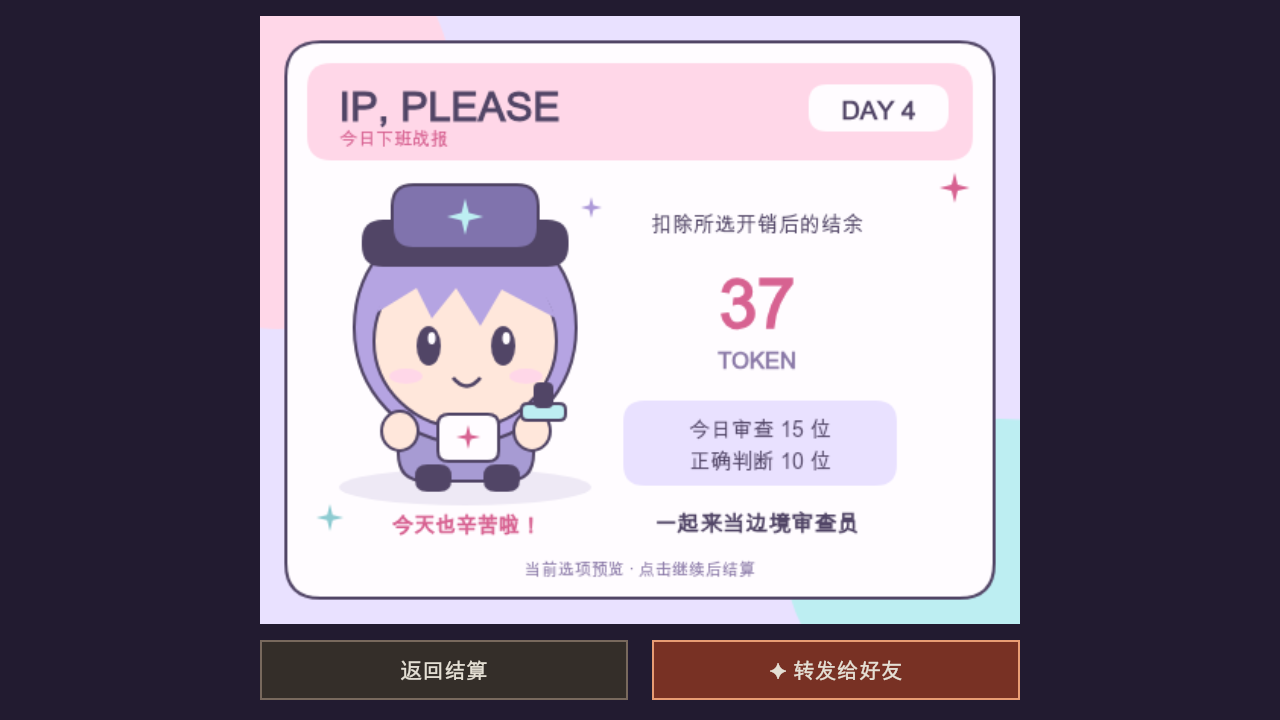
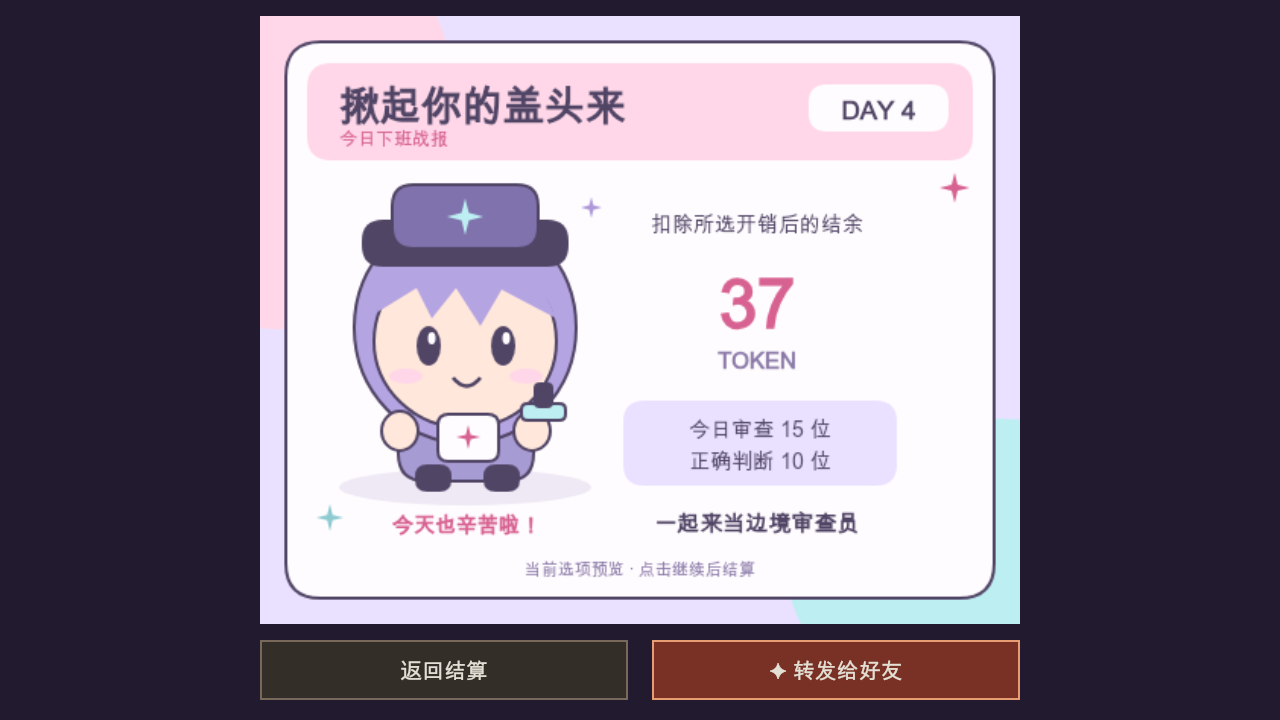
Give the Mini Game one consistent Chinese display name
Use 揪起你的盖头来 throughout the WeChat project, in-game title
screens, daily report images, and both share entry points. Apply display
replacements during the Mini Game build while preserving upstream credits.

Constraint: Display the exact Chinese name in both language modes
Directive: Keep the display name centralized in wechat/client/branding.js
Confidence: high
Scope-risk: narrow
Tested: 50 regression tests; Chinese glyph coverage and title bounds; native Canvas screen inspection
Tested: WeChat DevTools preview; import ZIP integrity and exclusion of private artifacts
Not-tested: Physical WeChat device; account profile name in the WeChat management console

Changed region(s): [[0.25, 0.1222, 0.5, 0.1833]]

diff --git a/wechat/client/share.js b/wechat/client/share.js
@@ -1,5 +1,7 @@
 'use strict';
 
+const { GAME_NAME } = require('./branding');
+
 const CARD_WIDTH = 500, CARD_HEIGHT = 400;
 const PALETTE = { ink: '#514566', lavender: '#e9e1ff', pink: '#ffd7e8', cyan: '#bdeef2', paper: '#fffcff', coral: '#d76291' };
 
@@ -15,7 +17,7 @@ function snapshotSummary(value) {
 
 function shareMetadata(snapshot, imageUrl) {
   return {
-    title: `IP, PLEASE｜DAY ${snapshot.day} 结余 ${snapshot.balance} Token`,
+    title: `${GAME_NAME}｜DAY ${snapshot.day} 结余 ${snapshot.balance} Token`,
     query: 'from=daily-report',
     ...(imageUrl ? { imageUrl } : {}),
   };
@@ -49,7 +51,7 @@ function drawShareCard(ctx, snapshot) {
   ellipse(12, 66, 118, 140, pink); ellipse(487, 365, 140, 100, cyan);
   round(17, 17, 466, 366, 23, paper, ink);
   round(31, 31, 438, 64, 16, pink);
-  label('IP, PLEASE', 52, 58, 27, ink, 'left', true);
+  label(GAME_NAME, 52, 58, 27, ink, 'left', true);
   label('今日下班战报', 52, 80, 12, coral);
   round(361, 45, 92, 31, 12, paper); label(`DAY ${snapshot.day}`, 407, 61, 17, ink, 'center', true);
   star(457, 113, 10, coral); star(46, 330, 9, '#8dcbd1'); star(218, 126, 7, '#ad99d8');
@@ -84,6 +86,11 @@ function drawShareCard(ctx, snapshot) {
 
 function createShare(wx, changed = () => {}) {
   let snapshot = null, canvas = null, exporting = false;
+  // The native menu share should use the same display name as the in-game card.
+  try {
+    if (wx.onShareAppMessage) wx.onShareAppMessage(() => ({ title: GAME_NAME, query: 'from=menu' }));
+    if (wx.showShareMenu) wx.showShareMenu({ menus: ['shareAppMessage'] });
+  } catch (e) { /* Older clients can continue playing without a custom share menu. */ }
   const notify = (title) => { if (wx.showToast) wx.showToast({ title, icon: 'none', duration: 2400 }); };
   function show(value) {
     try { snapshot = snapshotSummary(value); } catch (e) { notify(e.message); return false; }

diff --git a/wechat/client/branding.js b/wechat/client/branding.js
@@ -1,0 +1,3 @@
+'use strict';
+
+module.exports = { GAME_NAME: '揪起你的盖头来' };

diff --git a/wechat/README.md b/wechat/README.md
@@ -1,6 +1,8 @@
-# IP, PLEASE 微信小游戏
+# 揪起你的盖头来 · 微信小游戏
 
 基于 [IP, PLEASE 原项目](https://github.com/ip-please/ip-please.github.io) 的独立微信小游戏工程，与 Android / iOS 工程共用仓库根目录的剧情和规则。客户端使用微信原生 Canvas 2D，保留六天剧情、询问、测谎、拘留和两种结局，不嵌套网页。当前不接入广告。
+
+小游戏显示名称统一为 **揪起你的盖头来**，包括语言选择页、标题与副标题、结局、战报图片和转发消息；英文模式也保留这一名称。原项目署名与许可保留。
 
 ## 构建与导入
 

diff --git a/README.en.md b/README.en.md
@@ -93,7 +93,7 @@ node tools/mobile.mjs ios-device   # Unsigned device app
 
 Open `mobile/ios/IPPlease.xcodeproj` and configure your Apple development team and signing to install on a device or distribute through TestFlight / the App Store.
 
-### WeChat Mini Game
+### WeChat Mini Game: 揪起你的盖头来
 
 The independent [`wechat/`](wechat/README.md) project uses native WeChat Canvas and includes a national leaderboard, optional daily-report sharing, and an official Game Club entry. Advertising is currently disabled.
 

diff --git a/README.md b/README.md
@@ -96,7 +96,7 @@ node tools/mobile.mjs ios-device   # 未签名真机 App
 
 工程入口为 `mobile/ios/IPPlease.xcodeproj`。真机安装、TestFlight 或 App Store 分发需要在 Xcode 中配置自己的 Apple 开发团队和签名。
 
-### 微信小游戏
+### 微信小游戏：揪起你的盖头来
 
 独立工程位于 [`wechat/`](wechat/README.md)，使用微信原生 Canvas，包含全国排行榜、每日战报转发和官方游戏圈入口，当前不接入广告。
 

diff --git a/wechat/server/README.md b/wechat/server/README.md
@@ -1,4 +1,4 @@
-# IP, PLEASE 全国排行榜服务
+# 揪起你的盖头来 · 全国排行榜服务
 
 Node.js 22.22+，使用内置 `node:sqlite`，无需安装依赖。仅将服务绑定到 `127.0.0.1:18765`，由独立 HTTPS 域名 `https://api.momoyu.ltd/` 反向代理。数据库、运行用户、端口与服务均应独立，部署配置见上级项目文档。
 

diff --git a/wechat/client/README.md b/wechat/client/README.md
@@ -1,4 +1,4 @@
-# 微信小游戏客户端
+# 揪起你的盖头来 · 微信小游戏客户端
 
 在仓库根目录运行 `node wechat/tools/build.mjs`，用微信开发者工具导入 `wechat/minigame/`，项目类型选择**小游戏**。项目已填写 AppID `wx2484d6db995ed6b2`，请用该项目开发者账号登录。生成目录无需提交。
 
